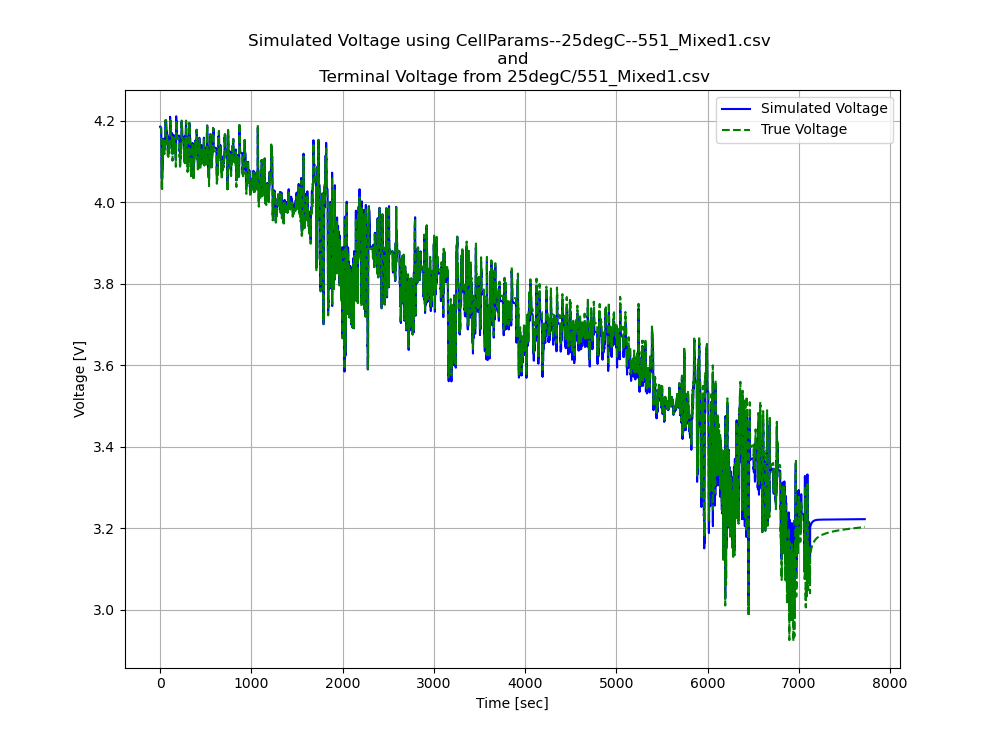
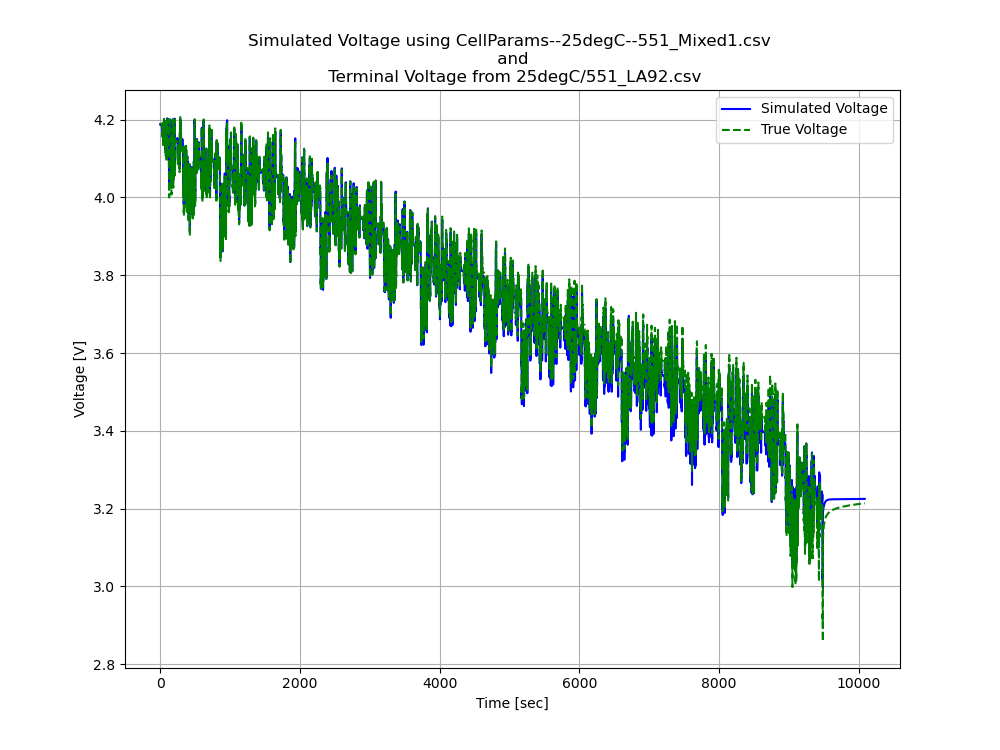
update README

diff --git a/main.py b/main.py
@@ -30,7 +30,7 @@ def main():
 
     cellDataObj.extractData()
 
-    plotDataObj.plotDataFromDataset(cellDataObj)
+    # plotDataObj.plotDataFromDataset(cellDataObj)
 
     """extract and save OCV functions"""
     cellExtractOCVObj = cellExtractOCV(cellDataObj)
@@ -40,11 +40,13 @@ def main():
     # plotDataObj.plotComputedOCV(cellExtractOCVObj)
 
     """extract and save dynamic functions"""
-    filename = temp + "551_Mixed1.csv"
-    # filename = temp + "552_Mixed3.csv"
+    # filename = temp + "551_Mixed1.csv"
+    filename = temp + "551_LA92.csv"
     cellDataObj = cellData(filename, pathname)
 
     cellDataObj.extractData()
+
+    # plotDataObj.plotDataFromDataset(cellDataObj)
 
     cellSimObj = cellSim(cellDataObj)
 

diff --git a/README.md b/README.md
@@ -33,12 +33,11 @@ This project is an implementation of RC link modelling of Li-ion Batteries using
 - The Cumulative Root Mean Squared Error (CRMSE) between the simulated terminal voltage and actual terminal voltage for a given dynamic test is considered as the loss function to be minimized.
 - The bounds of the cell parameters are defined with plausible values for the resistances and time constants of each RC branch.
 - Once the parameters are trained from a training data, it is then validated on different dynamic test data by comparing the computed CRMSEs.
-- ![overpot](images/overpot.png)
 - ![dynamic](images/dynamic.png)
 
 ## Results
-- OCV-SOC curve extracted from ```25degC/549_C20DisCh.csv``` and training done on ```CellParams--25degC--551_Mixed1.csv```
+- OCV-SOC curve extracted from ```25degC/549_C20DisCh.csv```, training done on ```25degC/551_Mixed1.csv``` and validation done on ```25degC/551_LA92.csv```:
 
 | Parameter | R0($\Omega$)    | R1($\Omega$)    | R2($\Omega$) | C1(F)     | C2(F)      | CRMSE(V)             |
 |-----------|------------|------------|---------|---------------|----------------|-------------------|
-| Value     | 0.01951358 | 0.01541913 | 0.5     | 1395.97247796 | 84959.64540431 | 20.01416826514894 |
+| Value     | 0.01951358 | 0.01541913 | 0.5     | 1395.97247796 | 84959.64540431 | 20.095525362647045 |
